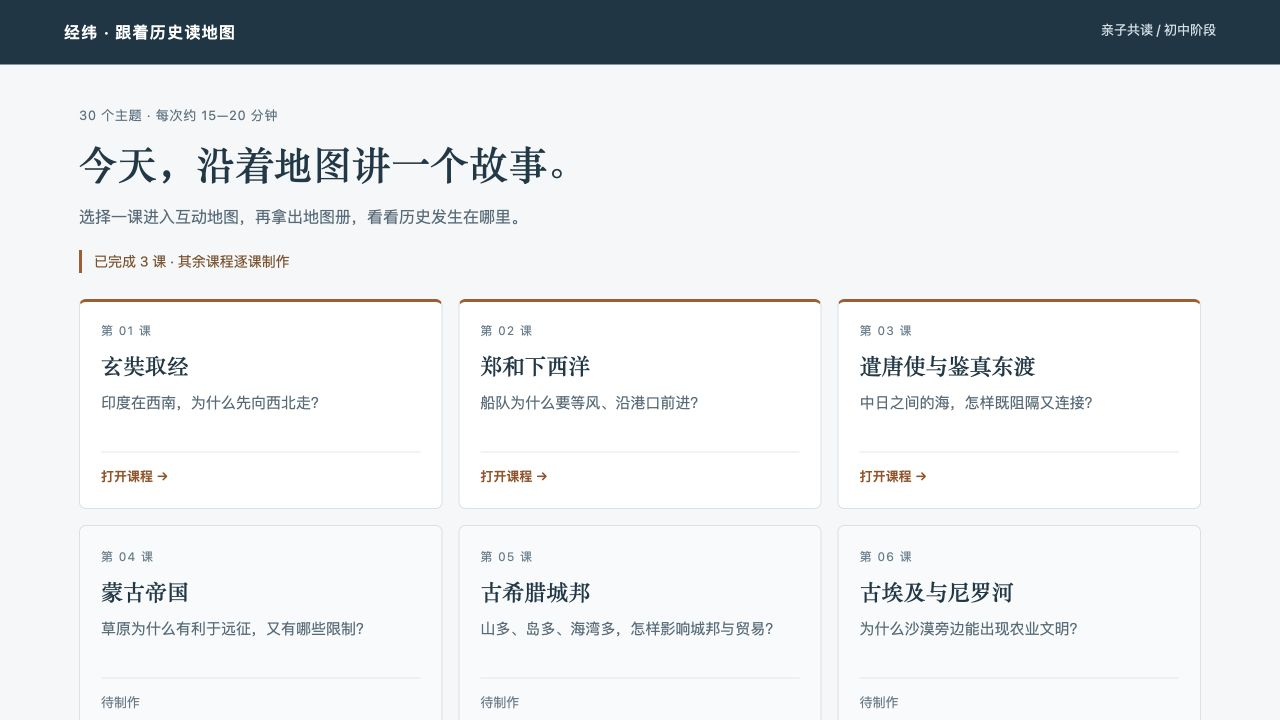
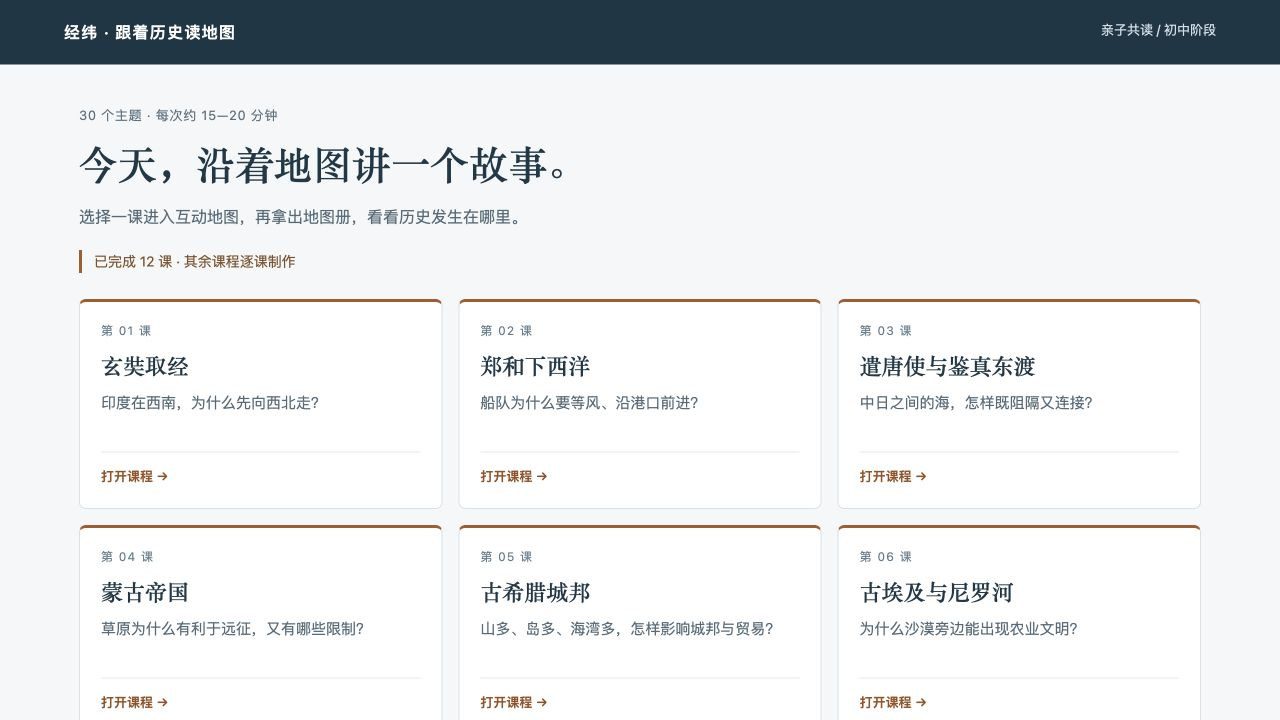
Add lessons 04-12 with map pages and complete reading scripts

diff --git a/README.md b/README.md
@@ -6,7 +6,7 @@
 
 **[打开30课课程目录 →](https://history-geography-lessons-cheng.ivanxia1988.chatgpt.site)** · [阅读完整课程方案](30天亲子历史地理谈话方案.md) · [反馈与建议](https://github.com/ivanxia1988/history-geography-lessons/issues)
 
-网页公开访问，无需登录或密码。当前已完成 **3 / 30** 课，其余课程逐课制作。
+网页公开访问，无需登录或密码。当前已完成 **12 / 30** 课，其余课程逐课制作。
 
 ![课程目录预览](课程目录预览.png)
 
@@ -18,15 +18,24 @@
 
 用地图把这些问题摆出来，再一起讨论补给、季节、技术、外交与人的选择。地理帮助解释历史，但不是唯一答案。
 
-## 从这三课开始
+## 已完成课程
 
 | 课程 | 核心问题 | 在线体验 |
 | --- | --- | --- |
 | 01 · 玄奘取经 | 印度在西南，为什么先向西北走？ | [进入课程](https://xuanzang-map-lesson-cheng.ivanxia1988.chatgpt.site) |
 | 02 · 郑和下西洋 | 船队为什么要等风、沿港口前进？ | [进入课程](https://zhenghe-map-lesson-cheng.ivanxia1988.chatgpt.site) |
 | 03 · 遣唐使与鉴真东渡 | 中日之间的海，怎样既阻隔又连接？ | [进入课程](https://jianzhen-map-lesson-cheng.ivanxia1988.chatgpt.site) |
+| 04 · 蒙古帝国 | 草原为什么有利于远征，又有哪些限制？ | [进入课程](https://history-geography-lessons-cheng.ivanxia1988.chatgpt.site/lessons/04/) |
+| 05 · 古希腊城邦 | 山多、岛多、海湾多，怎样影响城邦与贸易？ | [进入课程](https://history-geography-lessons-cheng.ivanxia1988.chatgpt.site/lessons/05/) |
+| 06 · 古埃及与尼罗河 | 为什么沙漠旁边能出现农业文明？ | [进入课程](https://history-geography-lessons-cheng.ivanxia1988.chatgpt.site/lessons/06/) |
+| 07 · 两河流域的城市 | 有河不等于有好生活，人还要做什么？ | [进入课程](https://history-geography-lessons-cheng.ivanxia1988.chatgpt.site/lessons/07/) |
+| 08 · 张骞与河西走廊 | 一条狭长地带为什么值得反复争夺？ | [进入课程](https://history-geography-lessons-cheng.ivanxia1988.chatgpt.site/lessons/08/) |
+| 09 · 李冰与都江堰 | 怎样把洪水的威胁变成灌溉的条件？ | [进入课程](https://history-geography-lessons-cheng.ivanxia1988.chatgpt.site/lessons/09/) |
+| 10 · 诸葛亮北伐 | 山能保护一个政权，为什么也会困住它？ | [进入课程](https://history-geography-lessons-cheng.ivanxia1988.chatgpt.site/lessons/10/) |
+| 11 · 隋朝大运河 | 天然河流多向东，为什么要修南北水道？ | [进入课程](https://history-geography-lessons-cheng.ivanxia1988.chatgpt.site/lessons/11/) |
+| 12 · 《清明上河图》里的开封 | 为什么一座大城市的生活要围着河流转？ | [进入课程](https://history-geography-lessons-cheng.ivanxia1988.chatgpt.site/lessons/12/) |
 
-后续选题包括蒙古帝国、古希腊城邦、尼罗河文明、河西走廊、大运河、罗马与地中海、工业革命、苏伊士运河等。完整安排见[三十天谈话方案](30天亲子历史地理谈话方案.md)。这里的“30天”是30次独立谈话，不要求连续打卡。
+后续继续制作迁都北京、罗马与地中海、工业革命、苏伊士运河等第13—30课。完整安排见[三十天谈话方案](30天亲子历史地理谈话方案.md)。这里的“30天”是30次独立谈话，不要求连续打卡。
 
 ## 一课怎么使用
 
@@ -53,6 +62,8 @@
 
 ```text
 course-index/                  30课目录网页与课程链接数据
+  lessons/04—30/               后续课程独立内容目录：lesson.json与讲解稿
+  lesson-template/             后续课程共用二维地图模板
 xuanzang-lesson/               第一课：玄奘取经
 zhenghe-lesson/                第二课：郑和下西洋
 jianzhen-lesson/               第三课：遣唐使与鉴真东渡
@@ -71,10 +82,11 @@ python3 -m http.server 8000 --bind 127.0.0.1 --directory jianzhen-lesson/dist
 新增课程上线后，更新 `course-index/courses.json`，再运行：
 
 ```bash
+python3 course-index/build_lessons.py --link
 python3 course-index/build_catalog.py
 ```
 
-同时更新本 README 与三十天方案中的课程入口。GitHub 保存源码与项目介绍，当前在线体验由 Sites 托管；推送 GitHub 不会自动更新 Sites 网站。本机 Sites 项目关联配置不纳入此公开仓库。
+构建器只生成已有完整地图节点的课程；仍须逐课核对史实并完成网页检查后才使用 `--link`。同时更新本 README 与三十天方案中的课程入口。GitHub 保存源码与项目介绍，当前在线体验由 Sites 托管；推送 GitHub 不会自动更新 Sites 网站。本机 Sites 项目关联配置不纳入此公开仓库。
 
 ## 来源与署名
 

diff --git a/30天亲子历史地理谈话方案.md b/30天亲子历史地理谈话方案.md
@@ -31,15 +31,15 @@
 | 01 | 玄奘取经 | 印度在西南，为什么先向西北走？ | [打开课程](https://xuanzang-map-lesson-cheng.ivanxia1988.chatgpt.site) |
 | 02 | 郑和下西洋 | 船队为什么要等风、沿港口前进？ | [打开课程](https://zhenghe-map-lesson-cheng.ivanxia1988.chatgpt.site) |
 | 03 | 遣唐使与鉴真东渡 | 中日之间的海，怎样既阻隔又连接？ | [打开课程](https://jianzhen-map-lesson-cheng.ivanxia1988.chatgpt.site) |
-| 04 | 蒙古帝国 | 草原为什么有利于远征，又有哪些限制？ | 待制作 |
-| 05 | 古希腊城邦 | 山多、岛多、海湾多，怎样影响城邦与贸易？ | 待制作 |
-| 06 | 古埃及与尼罗河 | 为什么沙漠旁边能出现农业文明？ | 待制作 |
-| 07 | 两河流域的城市 | 有河不等于有好生活，人还要做什么？ | 待制作 |
-| 08 | 张骞与河西走廊 | 一条狭长地带为什么值得反复争夺？ | 待制作 |
-| 09 | 李冰与都江堰 | 怎样把洪水的威胁变成灌溉的条件？ | 待制作 |
-| 10 | 诸葛亮北伐 | 山能保护一个政权，为什么也会困住它？ | 待制作 |
-| 11 | 隋朝大运河 | 天然河流多向东，为什么要修南北水道？ | 待制作 |
-| 12 | 《清明上河图》里的开封 | 为什么一座大城市的生活要围着河流转？ | 待制作 |
+| 04 | 蒙古帝国 | 草原为什么有利于远征，又有哪些限制？ | [打开课程](https://history-geography-lessons-cheng.ivanxia1988.chatgpt.site/lessons/04/) |
+| 05 | 古希腊城邦 | 山多、岛多、海湾多，怎样影响城邦与贸易？ | [打开课程](https://history-geography-lessons-cheng.ivanxia1988.chatgpt.site/lessons/05/) |
+| 06 | 古埃及与尼罗河 | 为什么沙漠旁边能出现农业文明？ | [打开课程](https://history-geography-lessons-cheng.ivanxia1988.chatgpt.site/lessons/06/) |
+| 07 | 两河流域的城市 | 有河不等于有好生活，人还要做什么？ | [打开课程](https://history-geography-lessons-cheng.ivanxia1988.chatgpt.site/lessons/07/) |
+| 08 | 张骞与河西走廊 | 一条狭长地带为什么值得反复争夺？ | [打开课程](https://history-geography-lessons-cheng.ivanxia1988.chatgpt.site/lessons/08/) |
+| 09 | 李冰与都江堰 | 怎样把洪水的威胁变成灌溉的条件？ | [打开课程](https://history-geography-lessons-cheng.ivanxia1988.chatgpt.site/lessons/09/) |
+| 10 | 诸葛亮北伐 | 山能保护一个政权，为什么也会困住它？ | [打开课程](https://history-geography-lessons-cheng.ivanxia1988.chatgpt.site/lessons/10/) |
+| 11 | 隋朝大运河 | 天然河流多向东，为什么要修南北水道？ | [打开课程](https://history-geography-lessons-cheng.ivanxia1988.chatgpt.site/lessons/11/) |
+| 12 | 《清明上河图》里的开封 | 为什么一座大城市的生活要围着河流转？ | [打开课程](https://history-geography-lessons-cheng.ivanxia1988.chatgpt.site/lessons/12/) |
 | 13 | 明成祖迁都北京 | 首都为什么未必建在最富庶的地方？ | 待制作 |
 | 14 | 罗马与地中海 | 一片海怎样成为帝国的交通骨干？ | 待制作 |
 | 15 | 汉尼拔翻越阿尔卑斯山 | 为什么有时主动选择险路？ | 待制作 |
